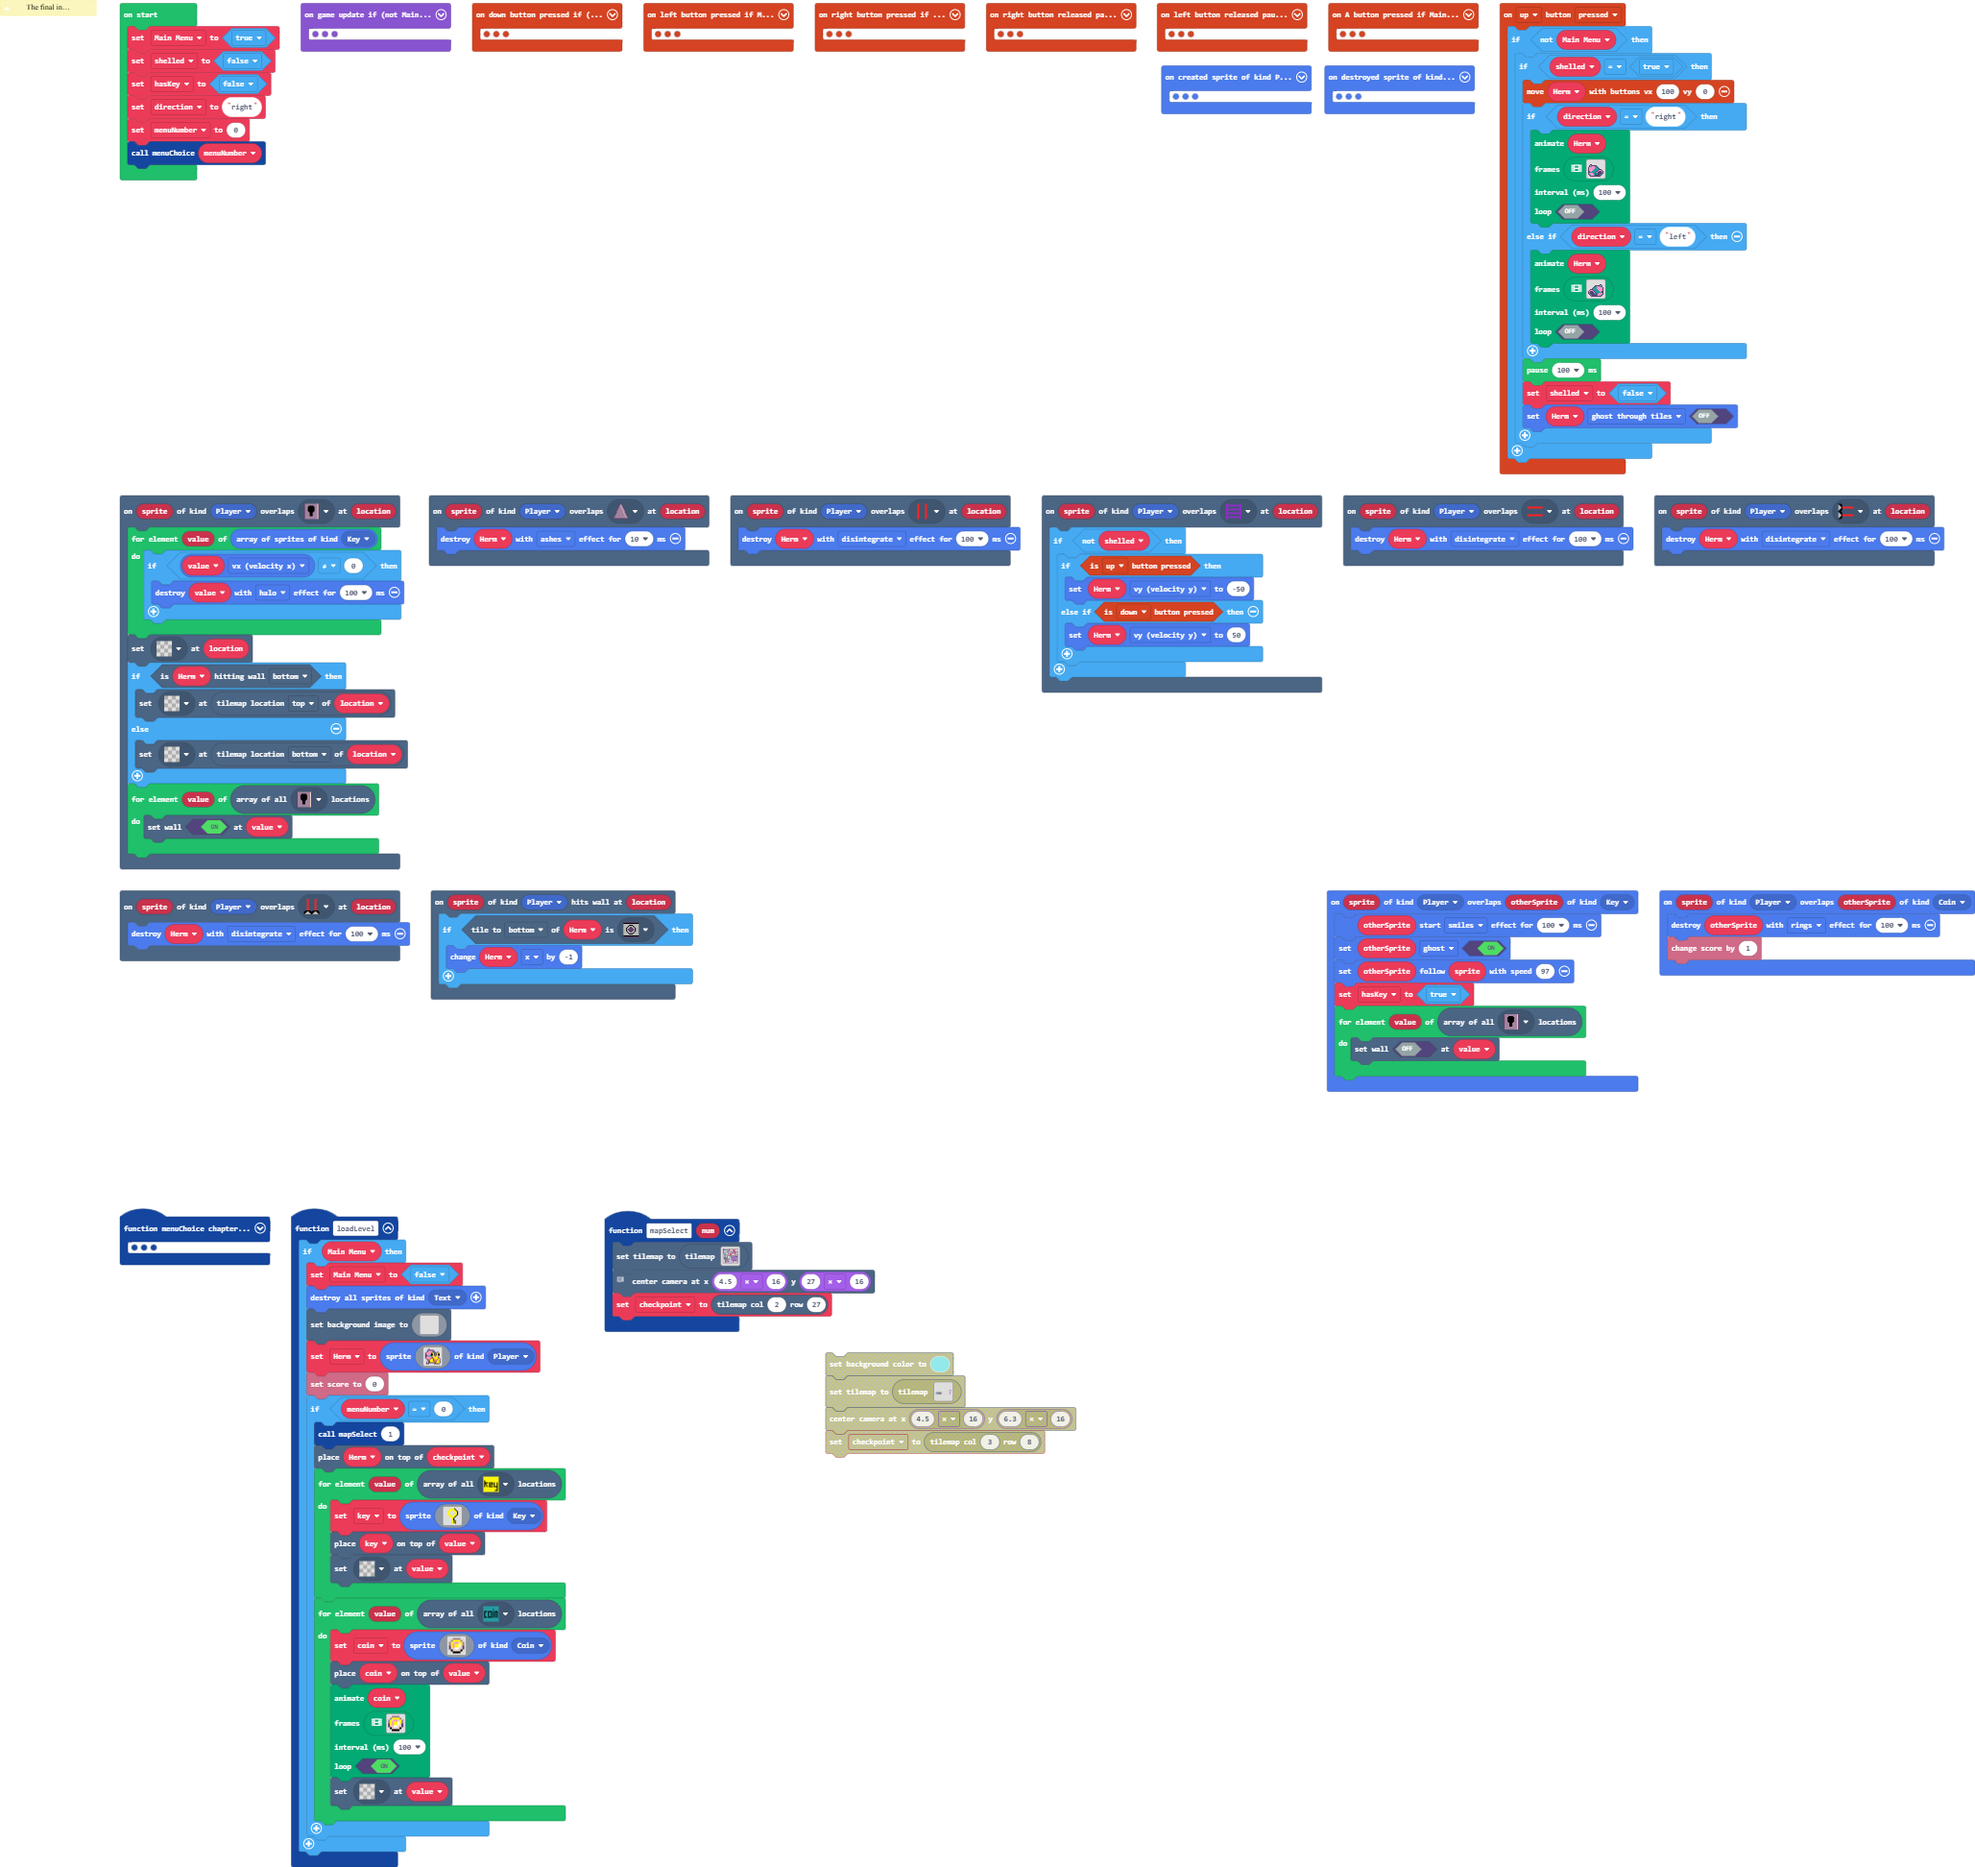
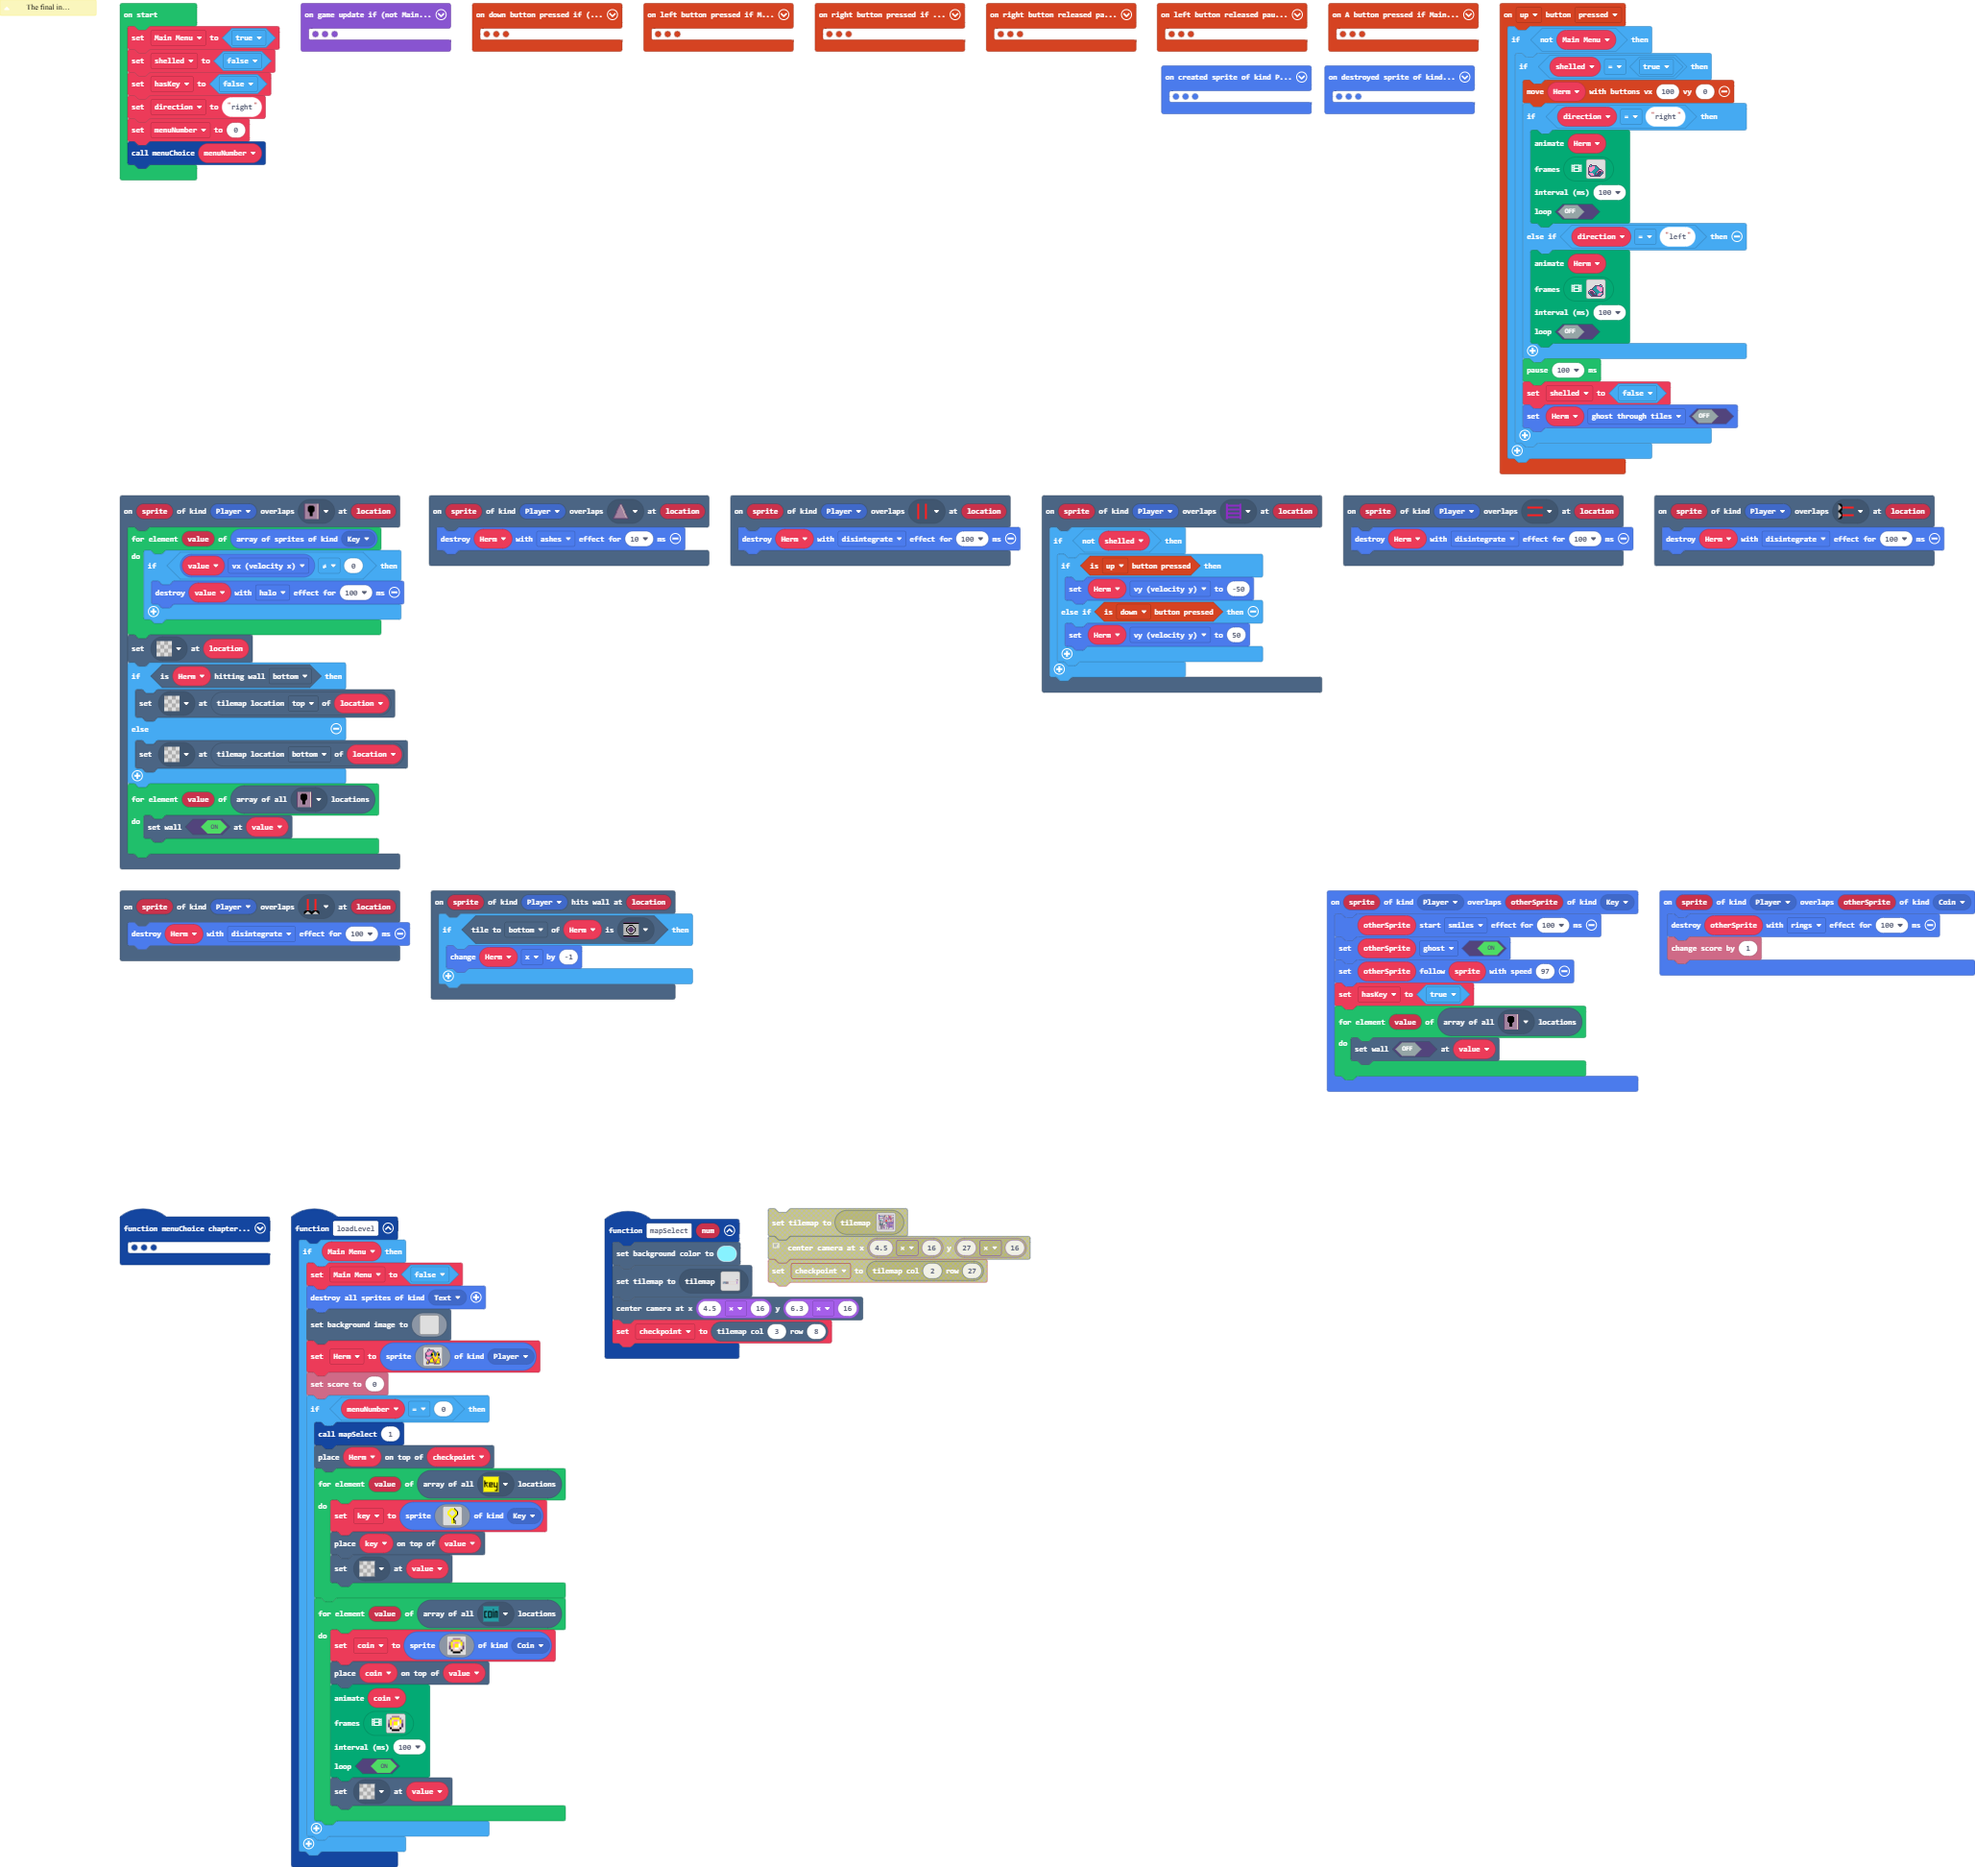
Update main.blocks, main.ts

Changed region(s): [[0.3111, 0.6481, 0.56, 0.8025]]

diff --git a/main.ts b/main.ts
@@ -1137,10 +1137,10 @@ controller.down.onEvent(ControllerButtonEvent.Pressed, function () {
     }
 })
 function mapSelect (num: number) {
-    tiles.setCurrentTilemap(tilemap`level2`)
-    // column at half of the room, same row as Herm.
-    scene.centerCameraAt(4.5 * 16, 27 * 16)
-    checkpoint = tiles.getTileLocation(2, 27)
+    scene.setBackgroundColor(9)
+    tiles.setCurrentTilemap(tilemap`level6`)
+    scene.centerCameraAt(4.5 * 16, 6.3 * 16)
+    checkpoint = tiles.getTileLocation(3, 8)
 }
 scene.onOverlapTile(SpriteKind.Player, assets.tile`myTile14`, function (sprite, location) {
     sprites.destroy(Herm, effects.disintegrate, 100)
